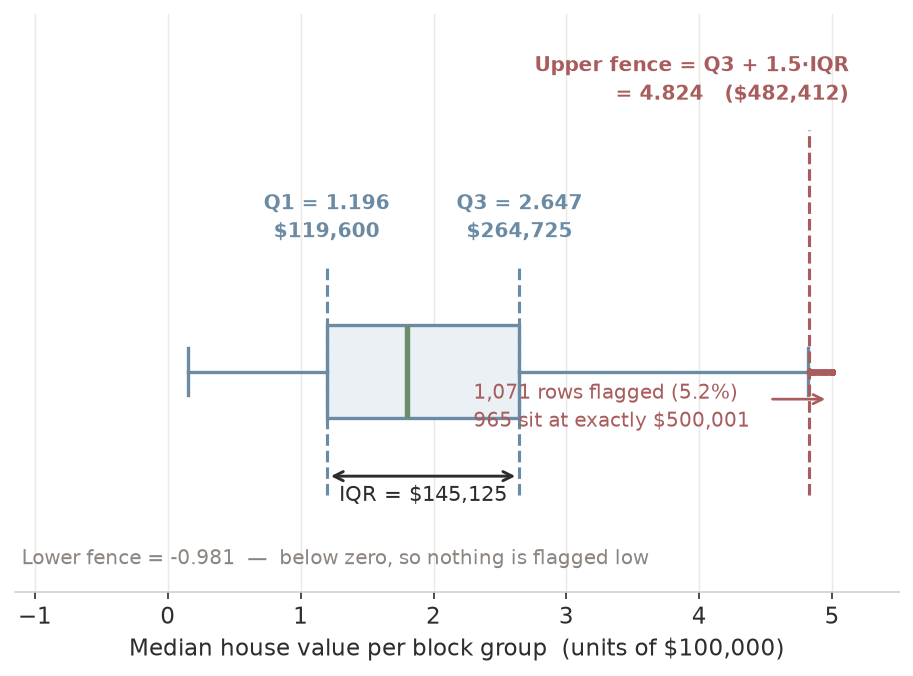
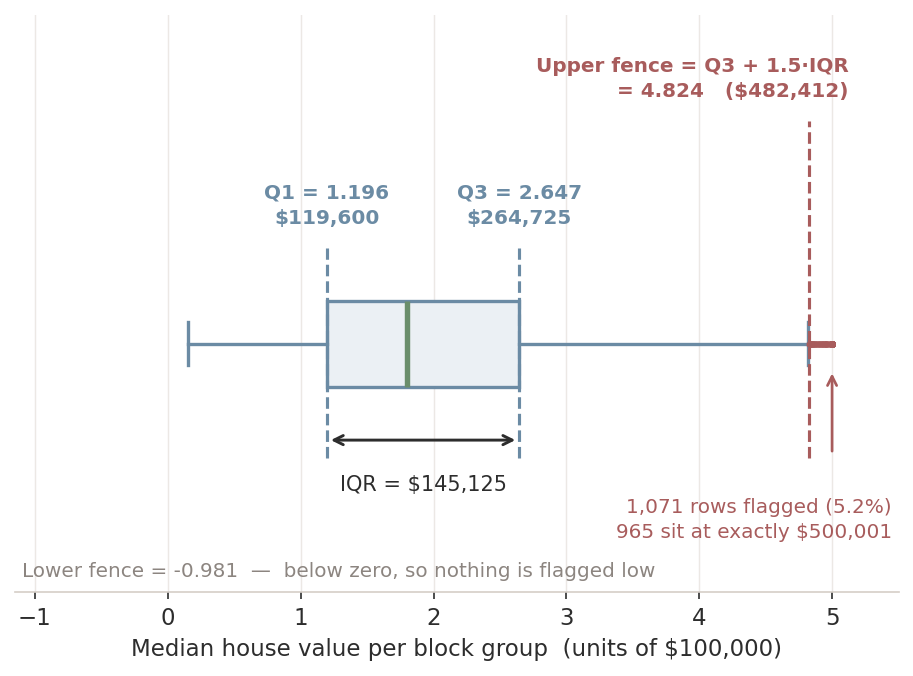
3916 Ch 4: G46 undercounted the Census ceiling; unpin the figure_003 labels
G46 (the four-questions slide, which the lab write-up is graded against)
read "Our 965 rows at $500,001" where G33 and G52 both say 992. 965 is a
true count -- it is the rows at exactly $500,001 -- but the artefact being
named is the ceiling, which is 992: 965 at $500,001 plus 27 at $500,000.
Using the narrower number on the graded slide understates it by 27 rows.
Now reads "Our 992 rows at the Census ceiling."

Verified against sklearn's california_housing rather than against the
other slides: 965 at exactly 5.00001, 27 at exactly 5.0, 992 total,
1071 above the upper fence (5.19%), fence $482,412, 992/1071 = 92.62%.
(np.isclose conflates 5.0 and 5.00001 at default rtol -- exact == only.)

figures/figure_003_tukey_fences.png: the two-line flagged-rows annotation
sat on top of the box and whisker. Moved to clear space bottom-right with
an arrow up to the flier cluster; IQR label nudged clear of its own arrow.

gen_all.py: every number quoted as slide text is now derived from the data
(n_flag, pct_flag, n_cap, n_ceil, CAP) instead of typed as a literal beside
computed f-string dollars. Q1/Q3/fence labels too. The literals all happened
to be correct -- the rendered numbers are unchanged -- but this is the shape
that put a wrong percentage into the 5200 copy of the same figure.

Alt text: upper fence 482,413 -> 482,412 to match what the figure prints.

Reported by the 5200 Reviewer session.

diff --git a/econ3916/ch04-robust-statistics-robustness-in-a-skewed-world/index.html b/econ3916/ch04-robust-statistics-robustness-in-a-skewed-world/index.html
@@ -821,7 +821,7 @@
     <section id="tukey-figure" style="padding: 26px 40px;">
       <h2 style="font-size: 24pt;">Where the Fence Actually Falls</h2>
       <div class="content">
-        <img src="figures/figure_003_tukey_fences.png" alt="Annotated horizontal boxplot of California median house values showing Q1 at 119,600 dollars, Q3 at 264,725 dollars, the interquartile range of 145,125 dollars, and a dashed upper fence at 482,413 dollars with 1,071 flagged points beyond it" style="max-height: 490px; display: block; margin: 0 auto;">
+        <img src="figures/figure_003_tukey_fences.png" alt="Annotated horizontal boxplot of California median house values showing Q1 at 119,600 dollars, Q3 at 264,725 dollars, the interquartile range of 145,125 dollars, and a dashed upper fence at 482,412 dollars with 1,071 flagged points beyond it" style="max-height: 490px; display: block; margin: 0 auto;">
       </div>
       <aside class="notes" data-sv="1"><p style="margin:0 0 .3em;font-size:.82em;color:#777">1 min.</p><div class="sv-lead" style="margin:0 0 .5em;padding:.06em 0 .10em .55em;border-left:5px solid #1565C0;font-size:1.28em;line-height:1.34;font-weight:600;color:#111"><p>Point at the dense red smear right at the top.</p></div><p style="margin:0 0 .3em;font-size:.82em;color:#777"><strong>TIME:</strong> Mon 28, 9:24</p><div class="sv-rest" style="margin:0;font-size:.9em;line-height:1.45;color:#5d5d5d"><div>That is not a spread of expensive houses &mdash; it is a wall. Set up the discussion by asking what a wall in a price distribution means.</div></div></aside>
     </section>
@@ -1148,7 +1148,7 @@ scores = iso.decision_function(features)         # more negative = more anomalou
           </div>
           <div style="display: grid; grid-template-columns: 44px 1fr; align-items: center; background: #EDF2F5; border-radius: 8px; padding: 12px 18px; border-left: 4px solid var(--accent-color);">
             <p style="font-size: 18pt; font-weight: 700; color: var(--accent-color);">2</p>
-            <p style="font-size: 14.5pt;"><strong>Is it a measurement artifact?</strong> Our 965 rows at $500,001. Censoring, not extremity.</p>
+            <p style="font-size: 14.5pt;"><strong>Is it a measurement artifact?</strong> Our 992 rows at the Census ceiling. Censoring, not extremity.</p>
           </div>
           <div style="display: grid; grid-template-columns: 44px 1fr; align-items: center; background: #f8f6f3; border-radius: 8px; padding: 12px 18px; border-left: 4px solid var(--success-color);">
             <p style="font-size: 18pt; font-weight: 700; color: var(--success-color);">3</p>

diff --git a/econ3916/ch04-robust-statistics-robustness-in-a-skewed-world/presentation.html b/econ3916/ch04-robust-statistics-robustness-in-a-skewed-world/presentation.html
@@ -821,7 +821,7 @@
     <section id="tukey-figure" style="padding: 26px 40px;">
       <h2 style="font-size: 24pt;">Where the Fence Actually Falls</h2>
       <div class="content">
-        <img src="figures/figure_003_tukey_fences.png" alt="Annotated horizontal boxplot of California median house values showing Q1 at 119,600 dollars, Q3 at 264,725 dollars, the interquartile range of 145,125 dollars, and a dashed upper fence at 482,413 dollars with 1,071 flagged points beyond it" style="max-height: 490px; display: block; margin: 0 auto;">
+        <img src="figures/figure_003_tukey_fences.png" alt="Annotated horizontal boxplot of California median house values showing Q1 at 119,600 dollars, Q3 at 264,725 dollars, the interquartile range of 145,125 dollars, and a dashed upper fence at 482,412 dollars with 1,071 flagged points beyond it" style="max-height: 490px; display: block; margin: 0 auto;">
       </div>
       <aside class="notes" data-sv="1"><p style="margin:0 0 .3em;font-size:.82em;color:#777">1 min.</p><div class="sv-lead" style="margin:0 0 .5em;padding:.06em 0 .10em .55em;border-left:5px solid #1565C0;font-size:1.28em;line-height:1.34;font-weight:600;color:#111"><p>Point at the dense red smear right at the top.</p></div><p style="margin:0 0 .3em;font-size:.82em;color:#777"><strong>TIME:</strong> Mon 28, 9:24</p><div class="sv-rest" style="margin:0;font-size:.9em;line-height:1.45;color:#5d5d5d"><div>That is not a spread of expensive houses &mdash; it is a wall. Set up the discussion by asking what a wall in a price distribution means.</div></div></aside>
     </section>
@@ -1148,7 +1148,7 @@ scores = iso.decision_function(features)         # more negative = more anomalou
           </div>
           <div style="display: grid; grid-template-columns: 44px 1fr; align-items: center; background: #EDF2F5; border-radius: 8px; padding: 12px 18px; border-left: 4px solid var(--accent-color);">
             <p style="font-size: 18pt; font-weight: 700; color: var(--accent-color);">2</p>
-            <p style="font-size: 14.5pt;"><strong>Is it a measurement artifact?</strong> Our 965 rows at $500,001. Censoring, not extremity.</p>
+            <p style="font-size: 14.5pt;"><strong>Is it a measurement artifact?</strong> Our 992 rows at the Census ceiling. Censoring, not extremity.</p>
           </div>
           <div style="display: grid; grid-template-columns: 44px 1fr; align-items: center; background: #f8f6f3; border-radius: 8px; padding: 12px 18px; border-left: 4px solid var(--success-color);">
             <p style="font-size: 18pt; font-weight: 700; color: var(--success-color);">3</p>
